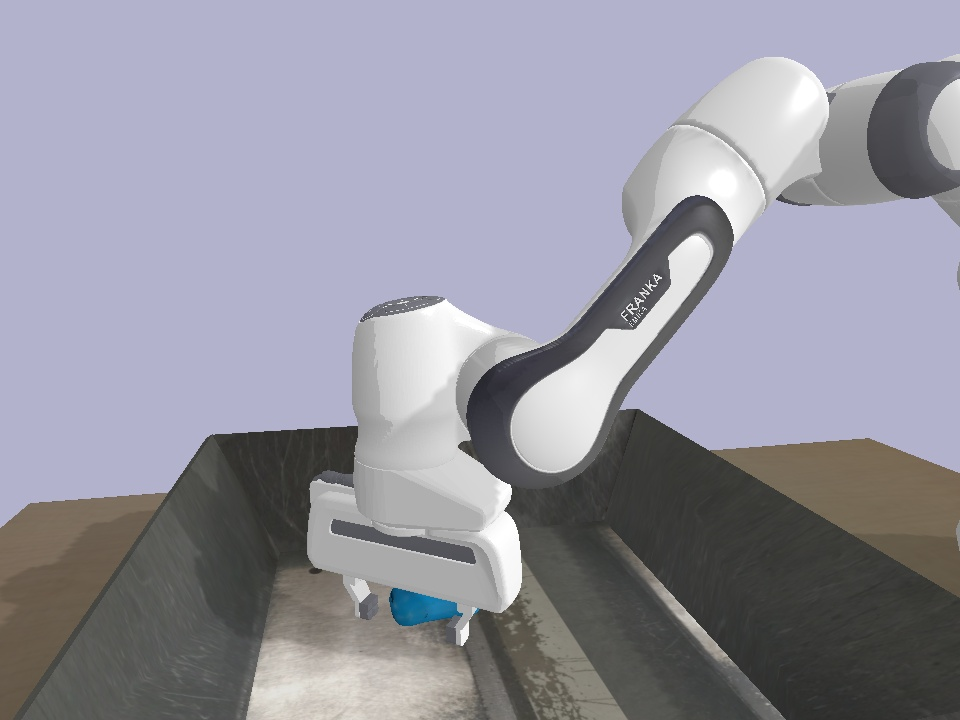
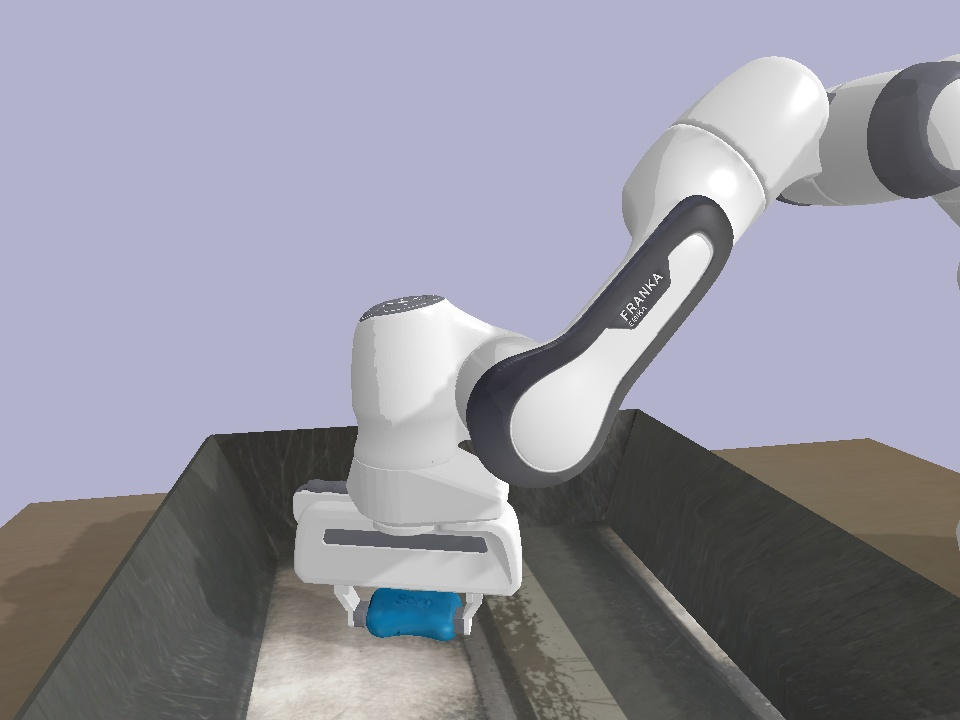
preparing to switch branch

Changed region(s): [[0.2812, 0.6417, 0.5625, 0.9167], [0.4062, 0.3972, 0.4688, 0.4278], [0.4688, 0.6111, 0.5, 0.6417]]

diff --git a/demo.py b/demo.py
@@ -18,7 +18,7 @@ def move_arm_and_rotate(pandaUid, coeff=-math.pi/4):
     p.setJointMotorControl2(pandaUid, 4, 
                 p.POSITION_CONTROL,0) # can modify
     p.setJointMotorControl2(pandaUid, 6, 
-                p.POSITION_CONTROL,coeff) # can modify
+                p.POSITION_CONTROL,coeff) # can modify, spin the gripper to a random angle
     p.setJointMotorControl2(pandaUid, 0, 
                             p.POSITION_CONTROL,0) # do not modify
     p.setJointMotorControl2(pandaUid, 1, 
@@ -126,7 +126,7 @@ def main(args):
             
         if current_state == 1:        
             approach_object(pandaUid)
-            rgb_array, depth_img, seg_img = get_grasp_img()
+            rgb_array, depth_img, seg_img = get_grasp_img() # get coordinates right here, pandaUID and objectUID
         
         if current_state == 2:        
             grip_object(pandaUid)
@@ -139,7 +139,7 @@ def main(args):
         if state_t > state_durations[current_state]:
             
             if current_state == 3: 
-                contact = p.getContactPoints(objectUid, pandaUid)    
+                contact = p.getContactPoints(objectUid, pandaUid)    # get coordinate information from pandaUiD, objectUiD  
                 if len(contact) > 5: 
                     file_name_success = "success_" + object_name + "_" +  str(success_counter) + ".jpg"
                     file_name_success_depth = "success_depth_" + object_name + "_" +  str(success_counter) + ".jpg"
